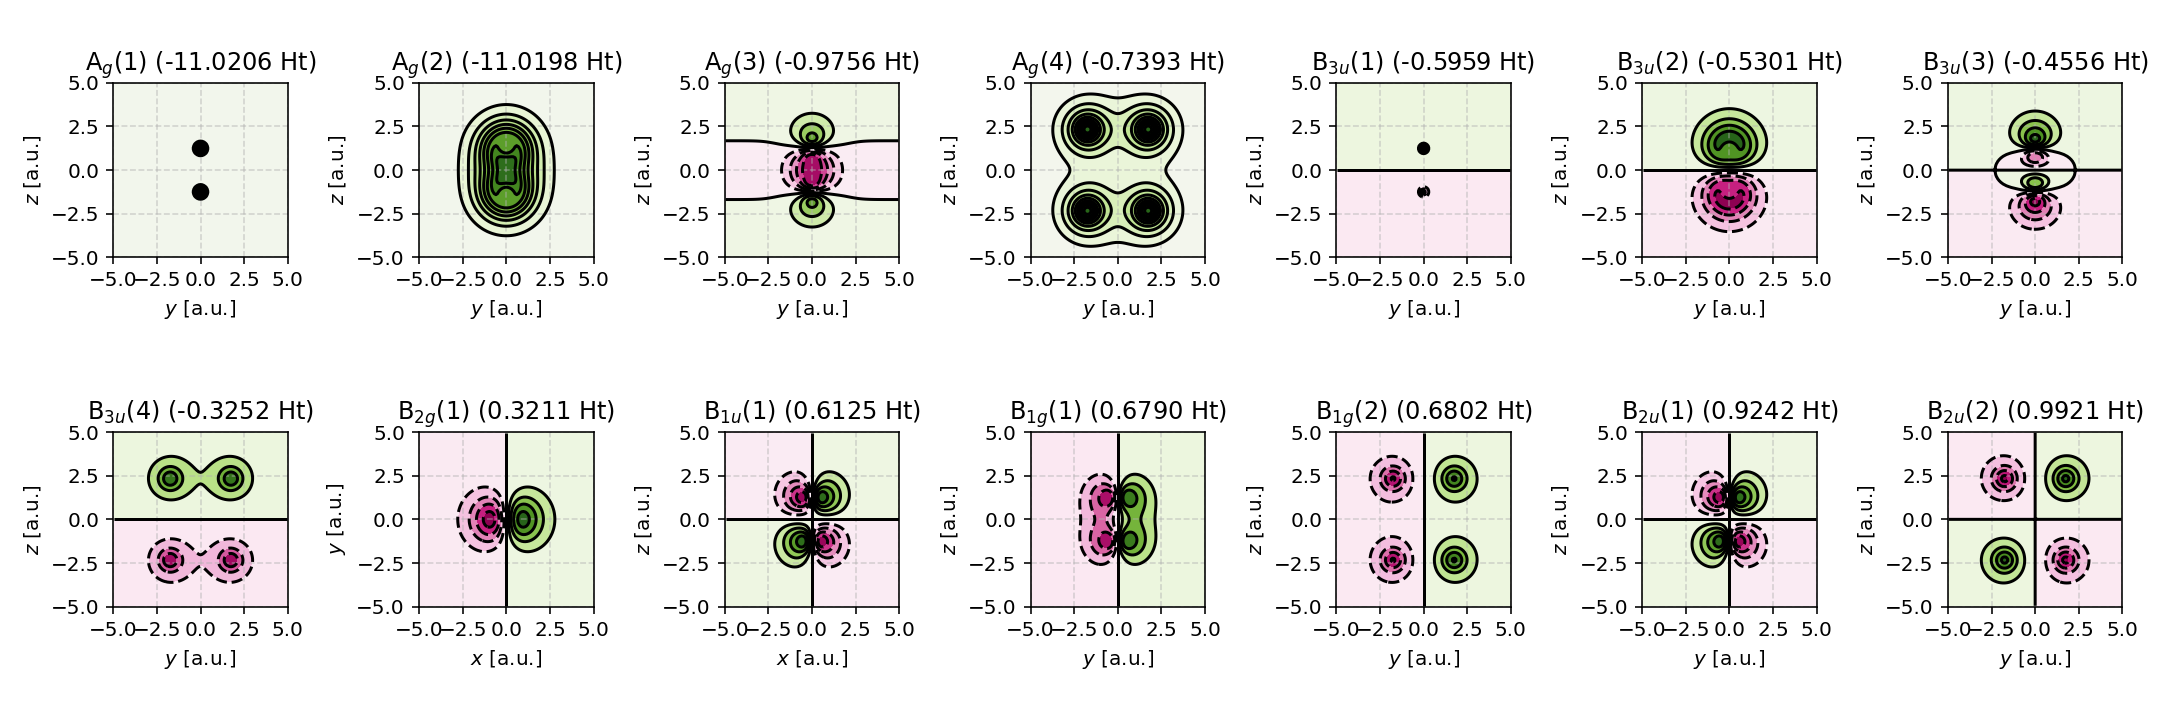
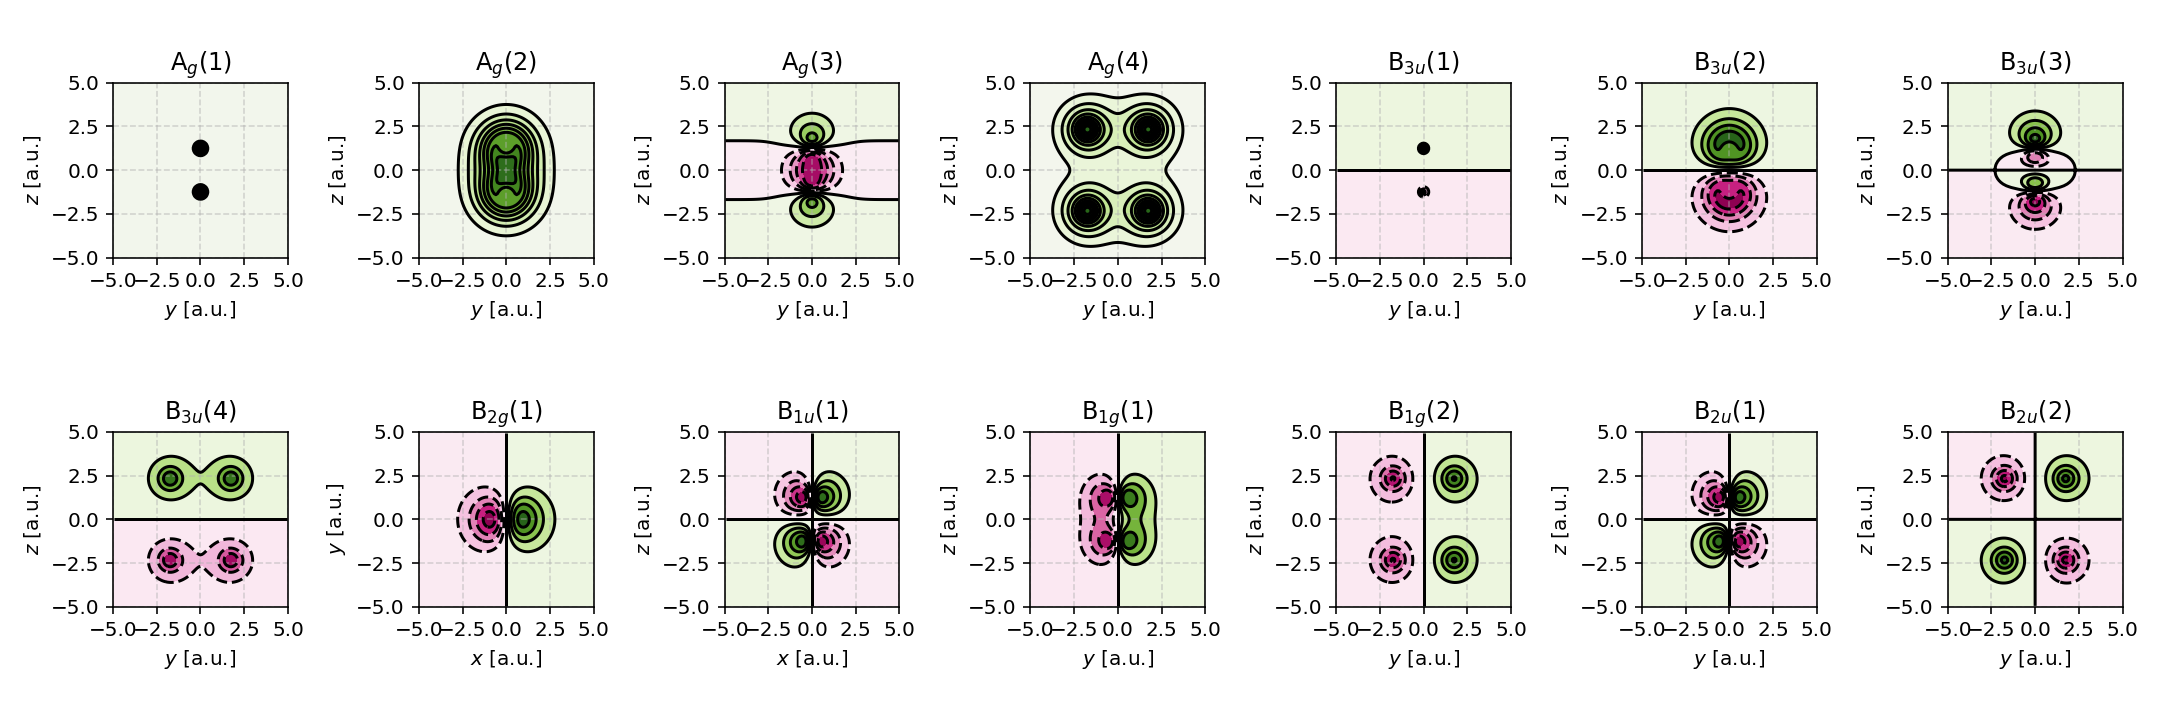
Minor changes to Docs

diff --git a/docs/gallery.rst b/docs/gallery.rst
@@ -3,7 +3,7 @@
 Gallery
 =======
 
-.. figure:: _static/img/gallery/mo_ch4_can.jpg
+.. figure:: _static/img/gallery/MO_ch4_can.jpg
 
     Isosurface visualization of all canonical molecular orbitals of
     methane computed at the Hartree-Fock level using a STO-3G basis set.
@@ -11,7 +11,7 @@ Gallery
     wavefunction, illustrating the highly delocalized nature of the canonical
     eigenstates imposed by molecular symmetry.
 
-.. figure:: _static/img/gallery/mo_ch4_fb.jpg
+.. figure:: _static/img/gallery/MO_ch4_fb.jpg
 
     Isosurface visualization of Foster-Boys localized molecular orbitals of
     methane computed at the Hartree-Fock/STO-3G level. Orbital
@@ -19,12 +19,12 @@ Gallery
     intuitive orbitals. For methane, this results in a quadruple degenerate
     set of state corresponding to the equivalent C-H bonds.
 
-.. figure:: _static/img/gallery/mo_co_can.jpg
+.. figure:: _static/img/gallery/MO_co_can.jpg
 
     Isosurface visualization of all canonical molecular orbitals of
     carbon monoxide computed at the Hartree-Fock level using a STO-3G basis set.
 
-.. figure:: _static/img/gallery/mo_co_fb.jpg
+.. figure:: _static/img/gallery/MO_co_fb.jpg
 
     Isosurface visualization of Foster-Boys localized molecular orbitals of
     carbon monoxide computed at the Hartree-Fock/STO-3G level. Orbital
@@ -32,7 +32,7 @@ Gallery
     intuitive orbitals. For carbon monoxide, we see a threefold degenerate set
     of states correspond to the C-O triple bond.
 
-.. figure:: _static/img/gallery/mo_dodecahedrane_can.jpg
+.. figure:: _static/img/gallery/MO_dodecahedrane_can.jpg
 
     Isosurface visualization of all canonical molecular orbitals of
     dodecahedrane computed at the Hartree-Fock level using a STO-3G basis set.
@@ -40,7 +40,7 @@ Gallery
     wavefunction, illustrating the highly delocalized nature of the canonical
     eigenstates imposed by molecular symmetry.
 
-.. figure:: _static/img/gallery/mo_dodecahedrane_fb.jpg
+.. figure:: _static/img/gallery/MO_dodecahedrane_fb.jpg
 
     Isosurface visualization of Foster-Boys localized molecular orbitals of
     dodecahedrane computed at the Hartree-Fock/STO-3G level. Orbital

diff --git a/docs/population_analysis.rst b/docs/population_analysis.rst
@@ -195,12 +195,6 @@ Analogously, the **MOOP coefficient** is defined as
 
 where :math:`S_{ij}` is an element of the overlap matrix :math:`\mathbf{S}`.
 
-.. note::
-
-    Both MOHP and MOOP can be evaluated for virtual (unoccupied) orbitals.
-    However, the interpretation of such values should be made with caution,
-    as virtual orbitals do not correspond to occupied electronic states.
-
 Lastly, the **MOBI coefficient** is defined as
 
 .. math::
@@ -244,13 +238,13 @@ The example below demonstrates MOHP, MOOP, and MOBI analysis for the CO molecule
 Example output::
 
   MOHP, MOOP, and MOBI values of canonical Hartree-Fock orbitals
-    1     -20.3914       0.0319      -0.0017      +0.0005
-    2     -11.0902       0.0094      -0.0009      +0.0003
+    1     -20.3914       0.0319      -0.0017       0.0005
+    2     -11.0902       0.0094      -0.0009       0.0003
     3      -1.4047      -0.4347       0.2937      -0.0219
-    4      -0.6899       0.1977      -0.0663      +0.3657
-    5      -0.5094      -0.2736       0.1562      +0.5121
-    6      -0.5094      -0.2736       0.1562      +0.5121
-    7      -0.4409       0.0813      -0.0375      +0.2263
+    4      -0.6899       0.1977      -0.0663       0.3657
+    5      -0.5094      -0.2736       0.1562       0.5121
+    6      -0.5094      -0.2736       0.1562       0.5121
+    7      -0.4409       0.0813      -0.0375       0.2263
     8       0.2865       0.4489      -0.2562      -0.8401
     9       0.2865       0.4489      -0.2562      -0.8401
    10       0.9253       5.1204      -2.6744      -1.4625

diff --git a/docs/acceleration_routines.rst b/docs/acceleration_routines.rst
@@ -39,7 +39,7 @@ as finite sums over one-dimensional kernels.
 
 .. math::
 
-    \begin{align}
+    \begin{aligned}
         K^{(1\mathrm{D})}_{l_1 l_2 l_3 l_4}
         &=
         \sum_{\substack{
@@ -75,13 +75,13 @@ as finite sums over one-dimensional kernels.
             {4^{\,u}
             \, u!
             \, (\mu-2u)!} \, .
-    \end{align}
+    \end{aligned}
 
 with
 
 .. math::
 
-    \begin{align}
+    \begin{aligned}
         \mu &= l_1 + l_2 + l_3 + l_4
             - 2(i_1+i_2+i_3+i_4)
             - (o_1+o_2+o_3+o_4),
@@ -95,7 +95,7 @@ with
         0 \le r_2 \le \left\lfloor \frac{o_3+o_4}{2} \right\rfloor,
         \\
         0 &\le u \le \left\lfloor \frac{\mu}{2} \right\rfloor.
-    \end{align}
+    \end{aligned}
 
 For a given angular momentum quartet :math:`(l_1, l_2, l_3, l_4)`, the
 corresponding kernel depends only on these angular momenta and not on the

diff --git a/docs/symmetry_adapted_basis.rst b/docs/symmetry_adapted_basis.rst
@@ -203,6 +203,7 @@ visualization of the resulting SALCs.
             nrows=2,
             ncols=7,
             labels=symlabels,
+			plot_energies = False,
         )
 
     def build_salcs_from_transform(
